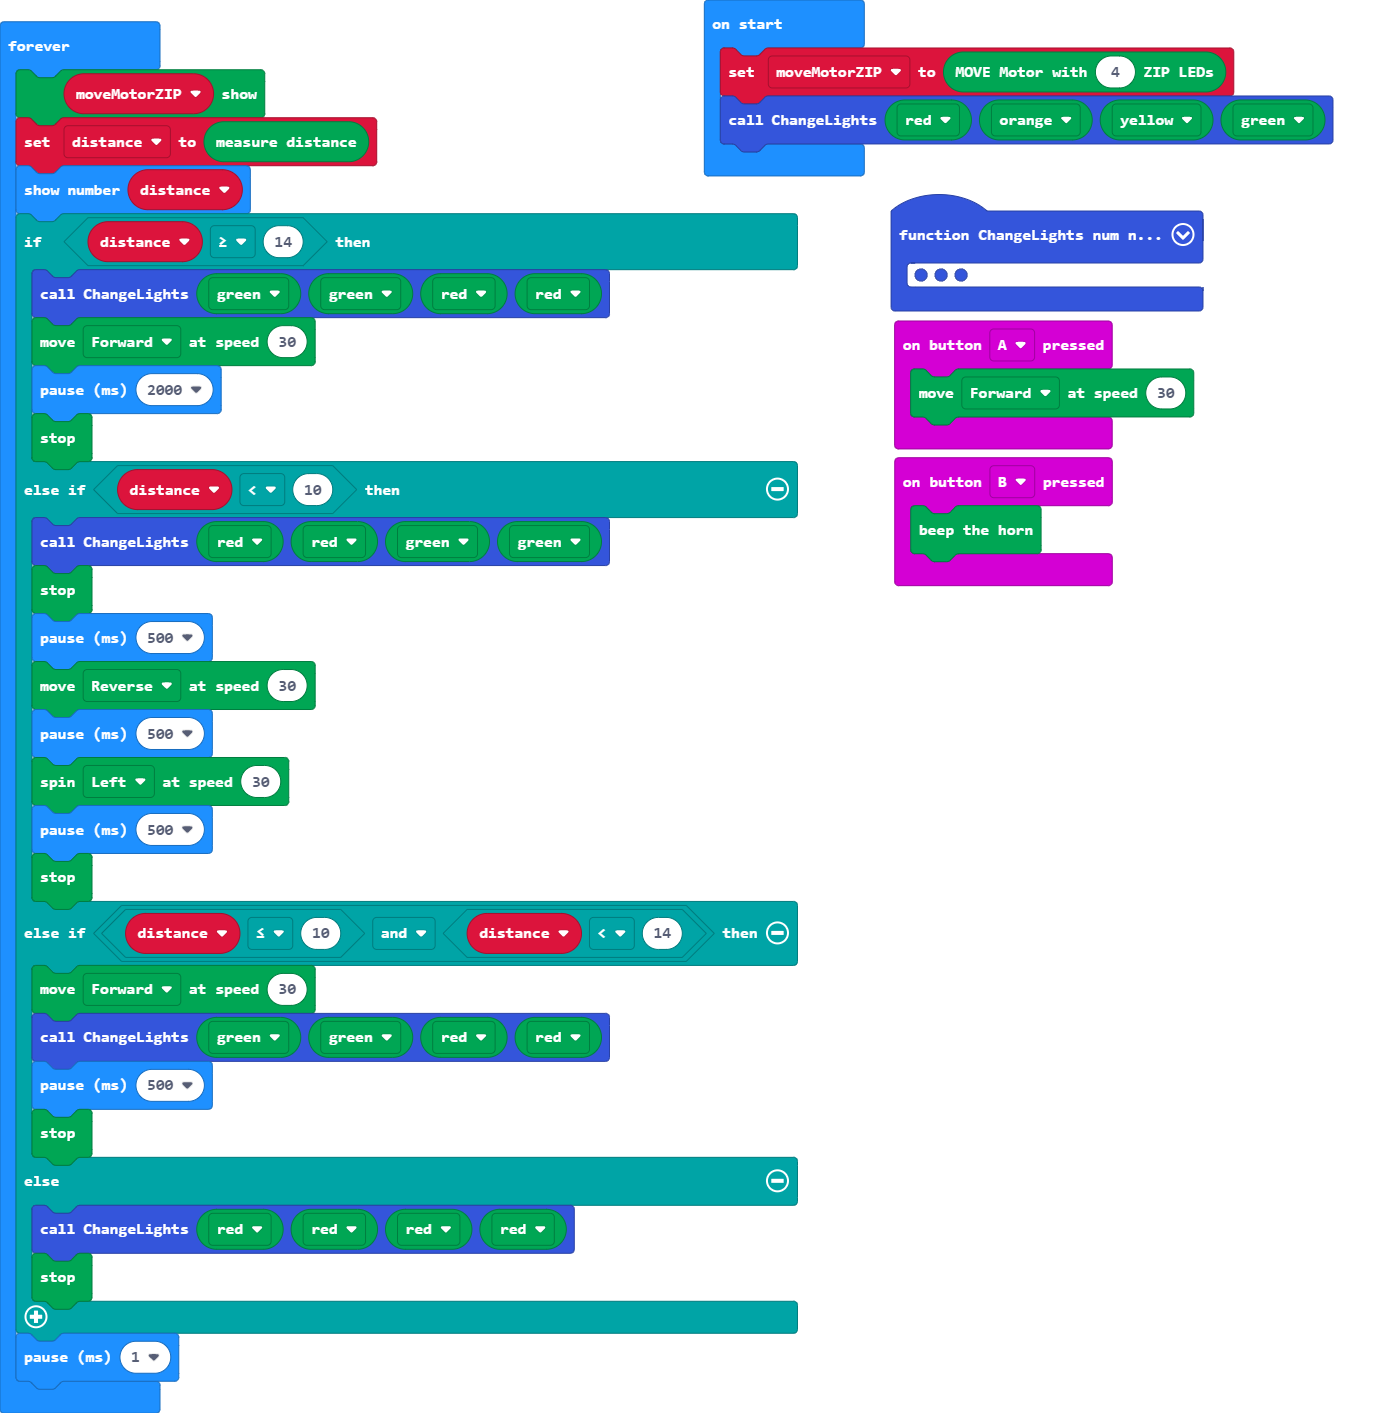
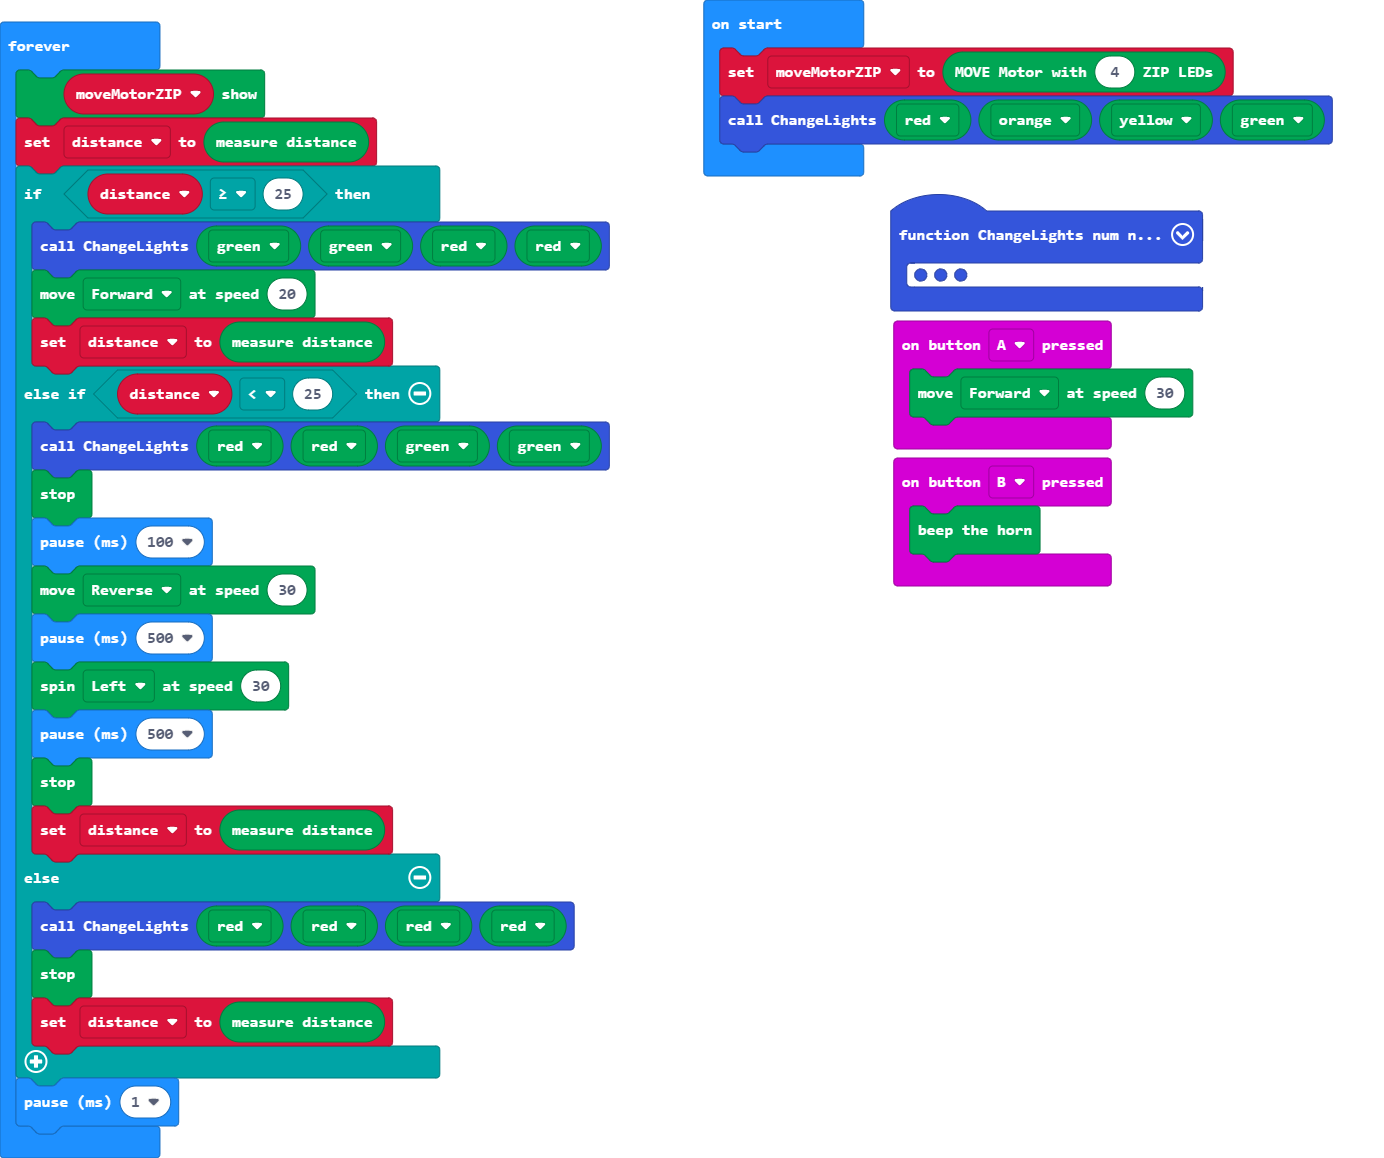
removed show distance because it was slowing the reactions down.

diff --git a/main.ts b/main.ts
@@ -18,29 +18,24 @@ ChangeLights(Kitronik_Move_Motor.colors(Kitronik_Move_Motor.ZipLedColors.Red), K
 basic.forever(function () {
     moveMotorZIP.show()
     distance = Kitronik_Move_Motor.measure()
-    basic.showNumber(distance)
-    if (distance >= 14) {
+    if (distance >= 25) {
         ChangeLights(Kitronik_Move_Motor.colors(Kitronik_Move_Motor.ZipLedColors.Green), Kitronik_Move_Motor.colors(Kitronik_Move_Motor.ZipLedColors.Green), Kitronik_Move_Motor.colors(Kitronik_Move_Motor.ZipLedColors.Red), Kitronik_Move_Motor.colors(Kitronik_Move_Motor.ZipLedColors.Red))
-        Kitronik_Move_Motor.move(Kitronik_Move_Motor.DriveDirections.Forward, 30)
-        basic.pause(2000)
-        Kitronik_Move_Motor.stop()
-    } else if (distance < 10) {
+        Kitronik_Move_Motor.move(Kitronik_Move_Motor.DriveDirections.Forward, 20)
+        distance = Kitronik_Move_Motor.measure()
+    } else if (distance < 25) {
         ChangeLights(Kitronik_Move_Motor.colors(Kitronik_Move_Motor.ZipLedColors.Red), Kitronik_Move_Motor.colors(Kitronik_Move_Motor.ZipLedColors.Red), Kitronik_Move_Motor.colors(Kitronik_Move_Motor.ZipLedColors.Green), Kitronik_Move_Motor.colors(Kitronik_Move_Motor.ZipLedColors.Green))
         Kitronik_Move_Motor.stop()
-        basic.pause(500)
+        basic.pause(100)
         Kitronik_Move_Motor.move(Kitronik_Move_Motor.DriveDirections.Reverse, 30)
         basic.pause(500)
         Kitronik_Move_Motor.spin(Kitronik_Move_Motor.SpinDirections.Left, 30)
         basic.pause(500)
         Kitronik_Move_Motor.stop()
-    } else if (distance <= 10 && distance < 14) {
-        Kitronik_Move_Motor.move(Kitronik_Move_Motor.DriveDirections.Forward, 30)
-        ChangeLights(Kitronik_Move_Motor.colors(Kitronik_Move_Motor.ZipLedColors.Green), Kitronik_Move_Motor.colors(Kitronik_Move_Motor.ZipLedColors.Green), Kitronik_Move_Motor.colors(Kitronik_Move_Motor.ZipLedColors.Red), Kitronik_Move_Motor.colors(Kitronik_Move_Motor.ZipLedColors.Red))
-        basic.pause(500)
-        Kitronik_Move_Motor.stop()
+        distance = Kitronik_Move_Motor.measure()
     } else {
         ChangeLights(Kitronik_Move_Motor.colors(Kitronik_Move_Motor.ZipLedColors.Red), Kitronik_Move_Motor.colors(Kitronik_Move_Motor.ZipLedColors.Red), Kitronik_Move_Motor.colors(Kitronik_Move_Motor.ZipLedColors.Red), Kitronik_Move_Motor.colors(Kitronik_Move_Motor.ZipLedColors.Red))
         Kitronik_Move_Motor.stop()
+        distance = Kitronik_Move_Motor.measure()
     }
     basic.pause(1)
 })
